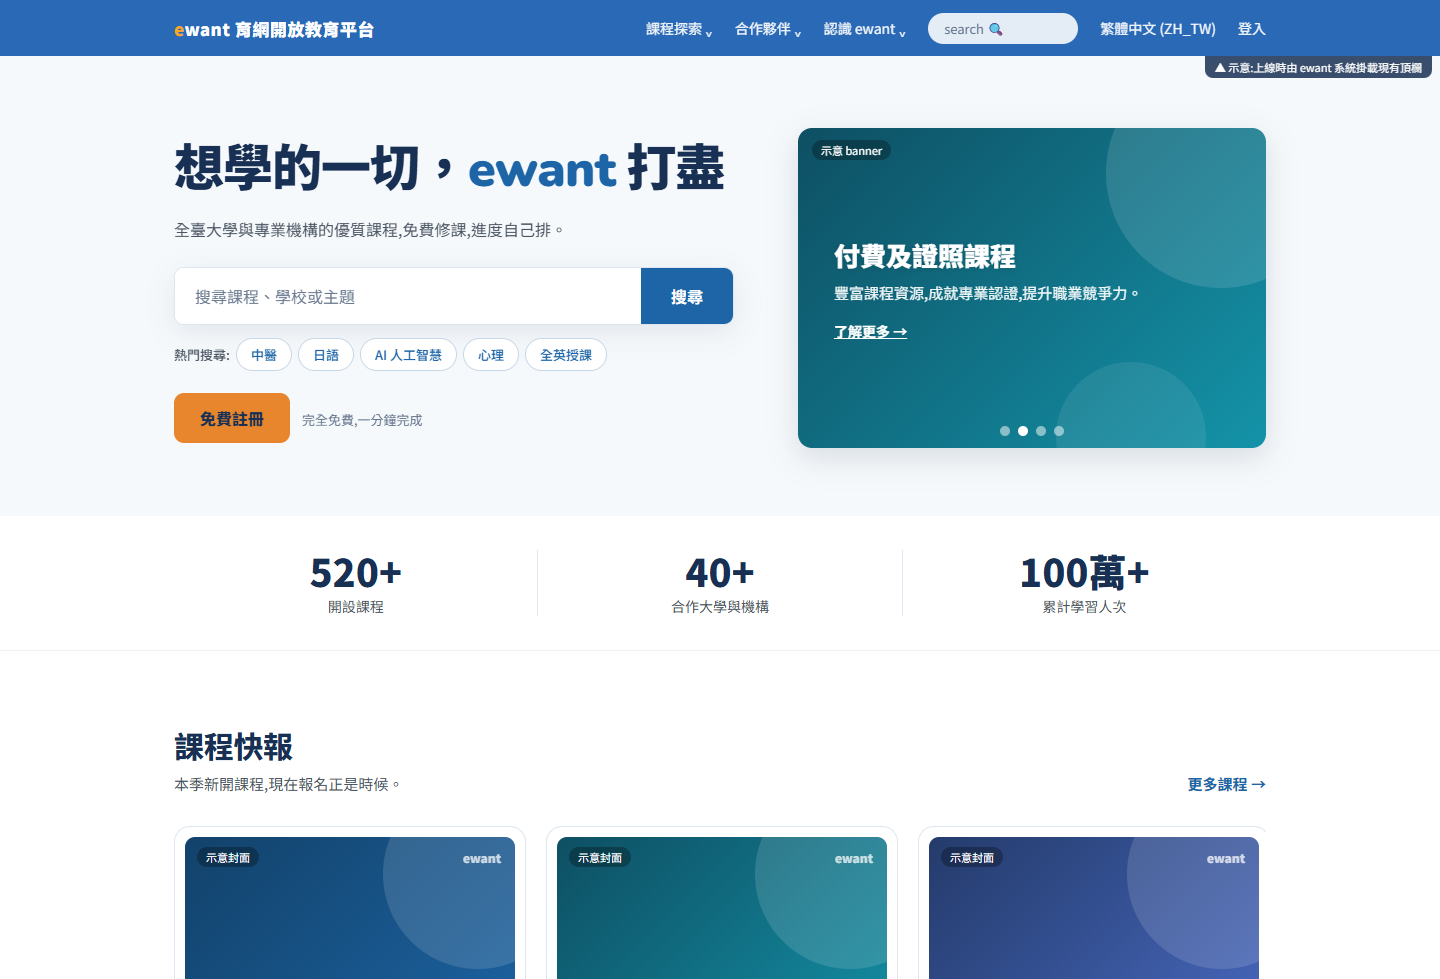
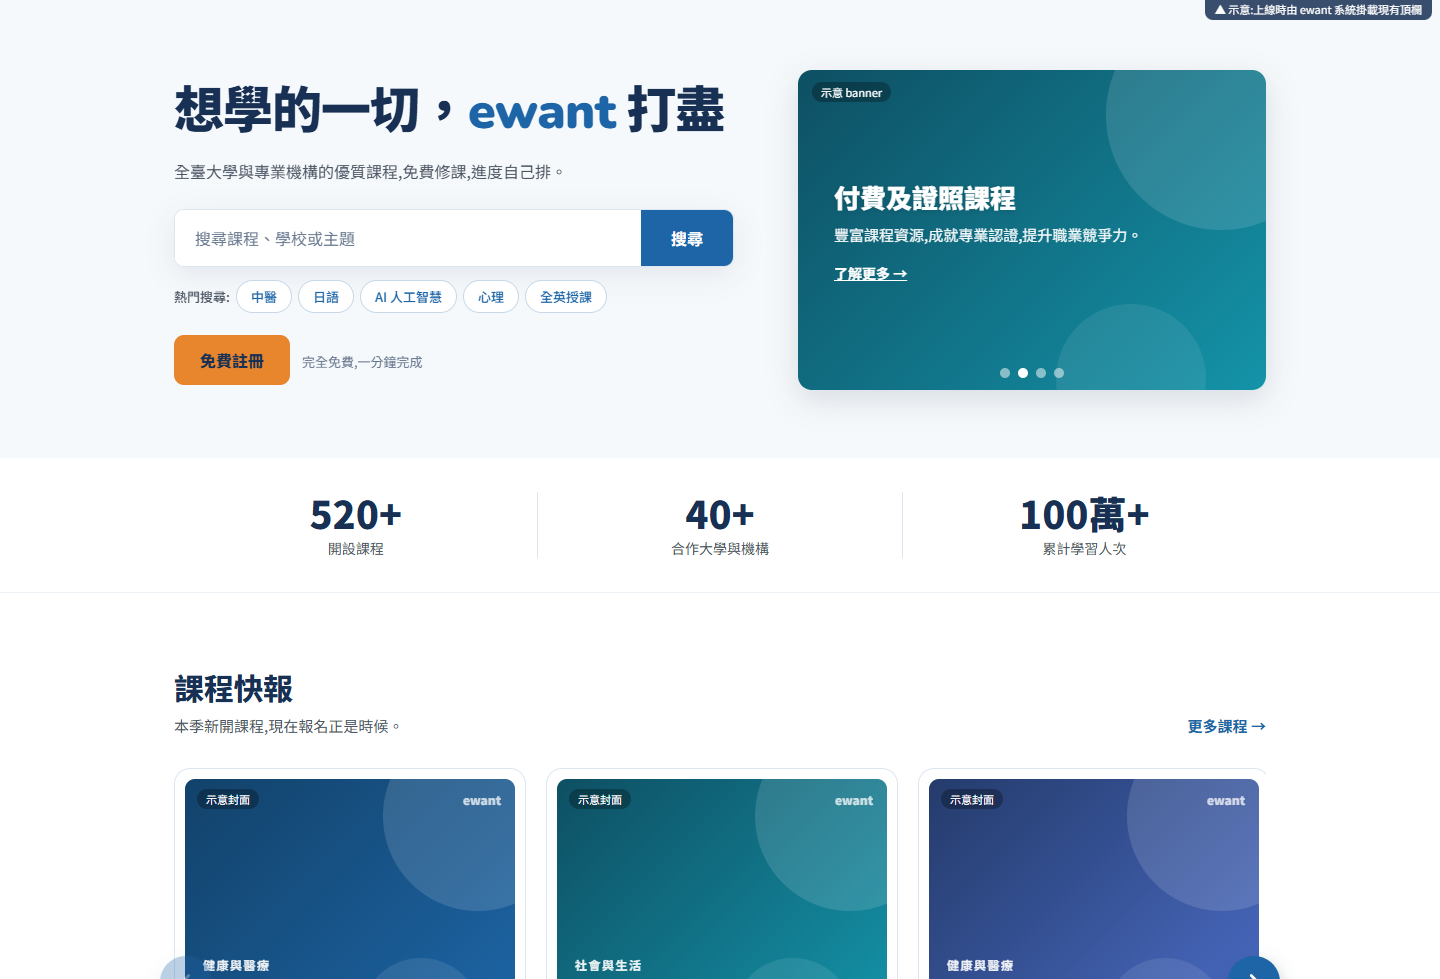
v2.2 截圖加說明、ewant 逐區段設計思維、交接改 Notion 工作台實拍

diff --git a/index.html b/index.html
@@ -150,9 +150,17 @@ footer .sig{margin-top:18px;font-size:.85em;color:var(--muted)}
 .modal h4{color:var(--pink-ink);font-size:.95em;margin:18px 0 8px;font-weight:800}
 .modal ul{padding-left:1.3em}
 .modal li{margin:5px 0;font-size:.94em}
-.shots{display:grid;grid-template-columns:repeat(auto-fit,minmax(200px,1fr));gap:12px;margin-top:10px}
-.shots img{border-radius:12px;border:1px solid var(--line);cursor:zoom-in;transition:transform .15s;background:#fff}
+.shots{display:grid;grid-template-columns:repeat(auto-fit,minmax(200px,1fr));gap:14px;margin-top:10px}
+.shots figure{margin:0}
+.shots img{border-radius:12px;border:1px solid var(--line);cursor:zoom-in;transition:transform .15s;background:#fff;width:100%}
 .shots img:hover{transform:scale(1.02)}
+.shots figcaption{font-size:.82em;color:var(--muted);margin-top:6px;line-height:1.6}
+.annot{display:grid;grid-template-columns:1.2fr .8fr;gap:16px;align-items:center;margin:16px 0}
+.annot img{width:100%;border-radius:12px;border:1px solid var(--line);cursor:zoom-in;background:#fff}
+.annot .note{background:#fff;border-radius:14px;padding:14px 18px;font-size:.88em;line-height:1.8;border-left:4px solid var(--pink)}
+.annot .note b{color:var(--blue-ink);display:block;margin-bottom:4px}
+.annot .note .hx{display:inline-block;background:var(--blue-50);color:var(--blue-deep);border-radius:6px;padding:0 8px;font-size:.86em;margin-top:6px}
+@media (max-width:640px){.annot{grid-template-columns:1fr}}
 .tech-tags{display:flex;gap:7px;flex-wrap:wrap}
 .lightbox{position:fixed;inset:0;background:rgba(35,48,66,.88);z-index:120;display:none;align-items:center;justify-content:center;padding:20px;cursor:zoom-out}
 .lightbox.open{display:flex}
@@ -366,7 +374,7 @@ const PROJECTS = [
   desc:"起點只是不想再用便條紙記待辦。我用「一次只加一個小改動、每版真檔實測」的節奏，六天內迭代 27 版、第一週長成 11 個模組的完整系統，至今演進到 v63。一個 HTML 檔、雙擊即開、完全離線，資料只存在自己電腦，還有十隻手繪風貓狗吉祥物輪班陪工作。",
   hi:["追案看板「一校一卡、球在誰手上」，21 所學校的交辦進度一眼掌握","經歷資料清空事故後，把備份匯出與自動快照升級為一級功能","可以交接：改版歷程、維運手冊、連「給下一個 AI 的說明書」都寫好了"],
   tech:["HTML/CSS/JS 單檔","localStorage","GAS 雲端同步","AI 結對開發"],
-  shots:["assets/catlendar-home.png","assets/catlendar-board.png","assets/catlendar-theme.png","assets/catlendar-mobile.png"]},
+  shots:[{s:"assets/catlendar-home.png",c:"首頁儀表板：「今天先看這裡」四問——輪到我做什麼、在等誰、幾天內有截止（示範資料）"},{s:"assets/catlendar-board.png",c:"追案看板：一校一卡、「輪到誰」一眼看懂，南風／晴光／山城大學皆為虛構示範"},{s:"assets/catlendar-theme.png",c:"淺色主題與值班吉祥物：工具可以可愛，效率不打折"},{s:"assets/catlendar-mobile.png",c:"手機版：首頁與追案看板，單檔也能響應式"}]},
 
  {id:"mail", cat:["ai"], img:"assets/mail-report.png",
   title:"📬 客服信箱自動分流系統", status:"live", statusTxt:"✅ 雲端排程運行中（SOS 與跨校通識兩套）",
@@ -376,7 +384,7 @@ const PROJECTS = [
   desc:"官方信箱每天湧入數十封信：報名問題、退費申請、學校來文、討論區通知。過去靠人工早晚掃信分派，還曾有學生求助信掉進垃圾信匣。現在系統在雲端自動跑：掃描收件匣與垃圾匣、依團隊分工分類、只在待辦信件貼標籤，讓 Gmail 變成一張會自己劃掉的待辦清單。",
   hi:["每天省下約 1 小時掃信時間，兩週內從零到雲端上線","AI 的邊界設計：不代回信、沒把握就標「請人工判斷」、已處理與否用程式時間戳判定","全員收到同一份報告，即使分類誤判，另一位負責人也看得到"],
   tech:["Python（純標準庫）","Gmail API + OAuth 2.0","雲端排程","Claude AI Agent"],
-  shots:["assets/mail-architecture.png","assets/mail-report.png"]},
+  shots:[{s:"assets/mail-architecture.png",c:"系統架構圖：雲端排程喚醒 → Gmail API 掃信 → AI 分類摘要 → 貼標籤＋寄分工報告"},{s:"assets/mail-report.png",c:"每日分流報告：按負責人分區、急件紅標、附處理建議（畫面為虛構示意資料）"}]},
 
  {id:"course", cat:["ai"], img:"assets/course-beforeafter.png",
   title:"📋 課程異動申請自動化", status:"live", statusTxt:"✅ 營運中・本季自動產出 37 份收執聯",
@@ -386,7 +394,7 @@ const PROJECTS = [
   desc:"學生的換課、停修、退費申請，過去是 Word 下載、Email 回傳、人工逐筆轉錄、手工排版收執聯，每一步都在複製貼上，每一步都可能出錯。重建後：表單條件分流加上帳號格式驗證，把錯誤擋在送出之前；送出瞬間四路同步（確認信、承辦通知、試算表、Notion 看板）；審核狀態改一格，官方收執聯自動生成、自動歸檔。",
   hi:["格式錯誤 100% 攔截於送出前，補件往返大幅減少","隱私設計：身分證與銀行帳號刻意不同步到協作看板","年末一鍵封存加三道防呆，接手的人完全不用碰程式碼"],
   tech:["Google Apps Script","Notion API","表單驗證設計","事件驅動架構"],
-  shots:["assets/course-beforeafter.png","assets/course-validation.png","assets/course-kanban.png","assets/course-receipt.png"]},
+  shots:[{s:"assets/course-beforeafter.png",c:"Before／After 流程對比：紙本七步驟人工轉錄 vs 填表即入庫、審核即出件"},{s:"assets/course-validation.png",c:"把錯誤擋在源頭：銀行帳號碼數不對就送不出去，補件往返大減"},{s:"assets/course-kanban.png",c:"Notion 協作看板：tech／chrissy 分視圖，各角色只看自己的工作區（測試資料）"},{s:"assets/course-receipt.png",c:"審核狀態改一格，官方版型收執聯自動生成歸檔（測試資料）"},{s:"assets/grades-flow.png",c:"同一條學生異動自動化線的延伸：提前交成績案件的現行自動化流程"}]},
 
  {id:"grades", cat:["ai"], img:"assets/grades-flow.png",
   title:"⏰ 提前交成績案件主控台", status:"live", statusTxt:"✅ 營運中・上線首日接管 15 件真實案件",
@@ -396,7 +404,7 @@ const PROJECTS = [
   desc:"學生為了畢業、升學、入伍申請提前取得成績，過去靠一張手工表格加記憶力管理。改造後：申請進來自動建檔（一位學生修兩門課就自動拆成兩條案件線），期限引擎從「學生需要成績的日期」反推教師結算死線，自動跳過週末與全校暑休；我改一格狀態，同事就收到帶齊資料的交棒信，連詢問老師的信都已經寫好放在裡面。",
   hi:["學生回信確認的瞬間：核章文件自動生成、檢送信草稿自動備好","對外信件一律只生成草稿，寄出鍵永遠在人手上","上線一週內依實戰回饋迭代 13 個修補，全程零停機"],
   tech:["Google Apps Script","工作日演算法","狀態機設計","範本引擎"],
-  shots:["assets/grades-flow.png","assets/grades-guide.png"]},
+  shots:[{s:"assets/grades-flow.png",c:"現行自動化流程：申請自動建檔 → 期限反推（跳週末與暑休）→ 狀態驅動交棒 → 核章文件自動生成"},{s:"assets/grades-guide.png",c:"給學校窗口的公版說明圖：無內部分工版本，來信直接套用"}]},
 
  {id:"vba", cat:["ai"], img:"assets/vba-tools.jpg",
   title:"🧰 VBA 小工具箱（62 支）", status:"live", statusTxt:"✅ 交接完成・單檔離線",
@@ -406,7 +414,7 @@ const PROJECTS = [
   desc:"接手業務時最可怕的資產：50 幾頁散落在筆記軟體裡的 Excel 巨集，沒人敢碰。我把繁瑣的行政流程重新整理，封裝成單檔 HTML 工具箱：免安裝、免帳號、完全離線，個資從頭到尾不離開電腦。工具不是按功能羅列，而是照作業流程編排，選一項業務就一步一步帶著做。",
   hi:["重建過程修掉 11 個會毀資料的地雷：永久刪檔、整欄爆填、同課重複匯入……","上傳、處理、下載三步驟，永不修改原始檔案","交接手冊由流程定義檔自動生成，工具更新、文件自動跟上"],
   tech:["HTML/JavaScript","SheetJS/ExcelJS","Python 建置管線","docs-as-code"],
-  shots:["assets/vba-home.jpg","assets/vba-tools.jpg"]},
+  shots:[{s:"assets/vba-home.jpg",c:"工具箱首頁：左側照「作業流程」導引，三步驟使用方式開門見山（空資料態實拍）"},{s:"assets/vba-tools.jpg",c:"62 支工具總覽：依功能屬性分組、卡片附白話說明與「原 VBA 已修正」標記"}]},
 
  {id:"sos-site", cat:["web"], img:"assets/site-sos-mobile.jpg",
   title:"🌐 SOS 學生指南一站式網站", status:"live", statusTxt:"✅ 公開上線中",
@@ -416,7 +424,7 @@ const PROJECTS = [
   desc:"學生不是不看指南，是資訊埋在層層折疊的長頁面裡、手機上讀不下去。我重新設計「學生怎麼找到答案」：首頁六張導覽卡一眼分流、自製課程異動決策圖讓學生回答兩個問題就知道能退選還是停修、每一頁的結尾都找得到人。網站和申請自動化系統無縫銜接，端到端零紙本。",
   hi:["四張自製 HTML 互動決策流程圖，規則不用讀、用「判斷」的","刻意選 Google Sites：零費用、團隊任何人都能維護，不留技術債","「繳費後 1 到 2 天會出現在我的課程」：明確的時間預期，就少一封焦慮的信"],
   tech:["Google Sites","HTML/CSS 流程圖","資訊架構","AI 瀏覽器自動化"],
-  shots:["assets/site-before-notion.jpg","assets/site-sos-mobile.jpg","assets/site-sos-nav.jpg"],
+  shots:[{s:"assets/site-before-notion.jpg",c:"Before：原 Notion 指南的手機畫面——深色長頁＋層層折疊，學生讀不下去"},{s:"assets/site-sos-mobile.jpg",c:"After：新網站手機版首頁——公告置頂＋柯基主題導覽卡，響應式直排"},{s:"assets/site-sos-nav.jpg",c:"手機導覽選單：7 頁架構一目了然，依學生旅程排序"}],
   link:"https://sites.google.com/ewant.org/sos-ewant/", linkTxt:"網站是公開的，點此逛逛"},
 
  {id:"ewant", cat:["web"], img:"assets/ewant-hero-crop.png",
@@ -427,7 +435,15 @@ const PROJECTS = [
   desc:"主導百萬學習人次平台的首頁改版：淘汰不符品牌調性的方案，確立「品牌藍為主、清晰專業、對成人受眾親切」的原則；把原站七個並列專區重組為「依身分找入口」，讓大學生、社會人士、高中生各自一眼找到自己的路。過程中發現站內可疑外掛，依分際回報技術同事處理，不越權、有留痕。",
   hi:["slogan 以品牌名諧音「一網打盡」，是我自己想出來的","14 條實戰踩雷紀錄沉澱為維運手冊，廠商、技術端、同事三種受眾三種文件","目前階段：E 版主線完成、內部審閱版流通中，待拍板正式上線"],
   tech:["WordPress/Elementor","資訊架構","品牌設計","AI 協作實作"],
-  shots:["assets/ewant-compare.png","assets/ewant-e-full.png","assets/ewant-e-mobile.png"]},
+  annotated:[
+   {s:"assets/ewant-s1.png",t:"第一屏：品牌主張＋搜尋先行",n:"slogan「想學的一切，ewant 打盡」開門見山；搜尋框直接放第一屏，因為使用者的目標就是「找課」——用學習者的語言而不是機構視角。右側輪播框保留活動檔期的位置。<span class='hx'>Heuristic：貼近真實世界</span>"},
+   {s:"assets/ewant-s2.png",t:"信任數字帶",n:"520+ 課程、40+ 合作大學、100 萬+ 學習人次——先用三個大數字建立「這是全國級平台」的可信度，再邀請往下逛。<span class='hx'>社會證明</span>"},
+   {s:"assets/ewant-s3.png",t:"課程快報：時效內容前置",n:"即將開課的課程放最前段，卡片統一版型（封面、分類標籤、日期、單一「看課程」按鈕），降低逐卡重新理解的成本。<span class='hx'>Heuristic：一致性與標準</span>"},
+   {s:"assets/ewant-s4.png",t:"依主題探索：給瀏覽型使用者",n:"12 個主題色卡窮盡分類，服務「還不知道要學什麼」的人——選項攤在眼前用認的，不用憑記憶想關鍵字。<span class='hx'>Heuristic：識別優於回憶</span>"},
+   {s:"assets/ewant-s5.png",t:"最新消息＋合作夥伴",n:"公告降級成輕量列表、不佔版面主軸；合作夥伴區回扣上方數字帶的 40+ 校，形成證據閉環。"},
+   {s:"assets/ewant-s6.png",t:"依你的身分，找到起點（本次改版核心）",n:"把原站 7 個並列專區重組為大學生／高中生／社會學習者三個身分入口——使用者不必先懂機構的計畫分類，選「我是誰」就能找到路。這是整次資訊架構重組的主決策。<span class='hx'>IA：依身分分流、降低認知負荷</span>"},
+   {s:"assets/ewant-s7.png",t:"三步驟上手＋收尾 CTA",n:"免費註冊→挑選課程→開始上課，把行動門檻拆成三小步；頁尾大字 EDUCATION YOU WANT 回扣品牌原意，CTA 與第一屏首尾呼應。<span class='hx'>行動召喚：首尾一致</span>"}
+  ]},
 
  {id:"analysis", cat:["doc"], svg:"analysis",
   title:"📊 報名數據分析報告", status:"live", statusTxt:"✅ 完成・關鍵數字經人工驗算",
@@ -444,9 +460,9 @@ const PROJECTS = [
   num:"16 章手冊，驗收標準是「新人照著做就能跑完一年」",
   role:"我的角色：知識架構的設計者。決定「單一資料來源」長什麼樣、三種輸出各給誰用。",
   desc:"行政最大的隱形成本是交接：規則存在承辦人腦中，文件永遠落後現況。我把整年度業務寫成「原始碼」：給會用 AI 的人，是 16 章 Claude Skill，新的 AI 會話能直接回答「現在幾月、該做什麼」；給習慣紙本的人，是腳本自動生成的 Word 手冊；給要排時程的人，是填三個錨點日期、整年時程自動展開的 Excel 主檔。內容更新重跑一次，三種輸出同步。",
-  hi:["軟體業的 single source of truth，完全適用於行政","文件不用手排、用生成：交接從「祈禱文件是新的」變成「跑一次腳本」","交接包一鍵打包，附給不熟 AI 的同事的兩分鐘安裝說明","Notion 端也在交接生態裡：協作看板分 tech／chrissy 視圖，接手的人各看各的工作區（下圖，示範資料）"],
+  hi:["軟體業的 single source of truth，完全適用於行政","文件不用手排、用生成：交接從「祈禱文件是新的」變成「跑一次腳本」","交接包一鍵打包，附給不熟 AI 的同事的兩分鐘安裝說明","第四種介面是 Notion：六個資料庫鏡像（Skill 目錄、流程卡、待辦與進度…），給習慣 Notion 的接手者看，正本仍在本機"],
   tech:["Markdown/JSON 原始碼","Python 產檔腳本","Claude Skill","知識架構設計"],
-  shots:["assets/course-kanban.png"]},
+  shots:[{s:"assets/handover-notion.png",c:"Notion「牛寶工作台」實拍：六庫鏡像總覽與同步規則——頁面裡就寫明「規則正本仍在 skill／Obsidian，Notion 只是鏡像」，單一資料來源的原則貫徹到每個出口"}]},
 
  {id:"nubao", cat:["ai"], svg:"nubao",
   title:"🐮 AI 助理「牛寶」系統", status:"wip", statusTxt:"🚧 持續進化中（這個網站也是牛寶蓋的）",
@@ -507,10 +523,11 @@ function openModal(p){
     <h4>技術與方法</h4>
     <div class="tech-tags">${p.tech.map(t=>`<span class="pill">${t}</span>`).join("")}</div>
     ${p.link?`<h4>傳送門</h4><a class="btn btn-line" style="padding:8px 20px" href="${p.link}" target="_blank" rel="noopener">${p.linkTxt}</a>`:""}
-    ${p.shots.length?`<h4>截圖（示範資料／去識別化）</h4><div class="shots">${p.shots.map(s=>`<img src="${s}" alt="${p.title} 截圖" loading="lazy">`).join("")}</div>`:""}
+    ${p.annotated?`<h4>完整版首頁・逐區段設計思維</h4>`+p.annotated.map(a=>`<div class="annot"><img src="${a.s}" alt="${a.t}" loading="lazy"><div class="note"><b>${a.t}</b>${a.n}</div></div>`).join(""):""}
+    ${p.shots&&p.shots.length?`<h4>截圖（示範資料／去識別化）</h4><div class="shots">${p.shots.map(x=>`<figure><img src="${x.s}" alt="${x.c}" loading="lazy"><figcaption>${x.c}</figcaption></figure>`).join("")}</div>`:""}
   `;
   modal.querySelector(".close").addEventListener("click", closeModal);
-  modal.querySelectorAll(".shots img").forEach(im=>im.addEventListener("click", ()=>openLight(im.src)));
+  modal.querySelectorAll(".shots img, .annot img").forEach(im=>im.addEventListener("click", ()=>openLight(im.src)));
   modalBg.classList.add("open");
   document.body.style.overflow = "hidden";
 }
